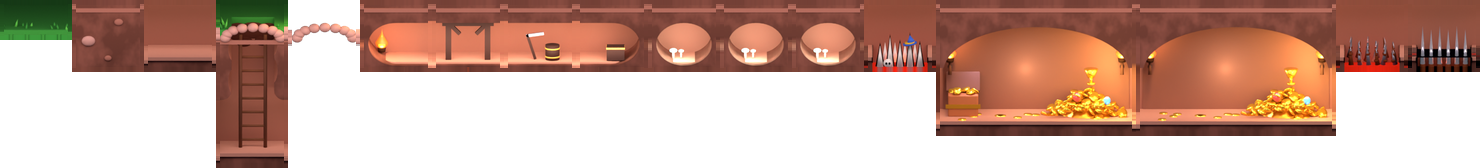
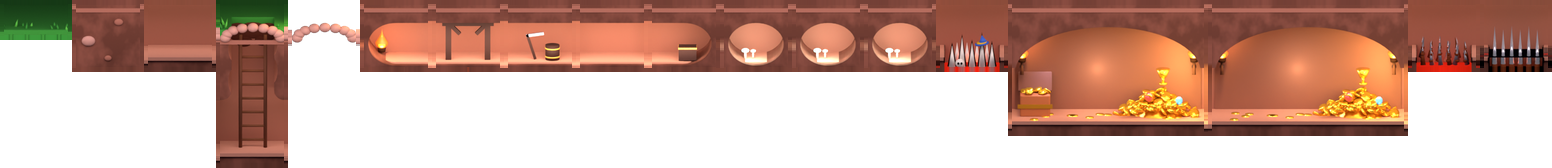
Mila: kamer_midden_c (kaal middenstuk) in hol_proef via laag kaal, oude stukken gelijk; begraven.import als pijplijn
Claude-Session: https://claude.ai/code/session_01RMWUyi2QcbWYkHdGNEHRoW

diff --git a/berichten/mila.md b/berichten/mila.md
@@ -5,7 +5,7 @@ Thijs zet hier (via de projectchat of hoofdchat) opdrachten en wensen neer. Lees
 - Klaar of verwerkt? Zet er "(verwerkt <datum>: wat je deed)" achter. Verwijder niets.
 - **17 nov ±00:00 UTC (van Sanne), ter info, na de speeltest: rolsteen en edelman.** Zie het blok in `platformen/steam/features.md`; Daan beslist het uiterlijk. De hoge hoed van de edelman is het pronkstuk bovenop Gloops toren, dus hij mag opvallen. Webpagina's lees je met `curl` in Bash, nooit met WebFetch. WebFetch vraagt Thijs om toestemming en dan staat alles stil.
 - **17 nov ±00:00 UTC (van Sanne), ter info, pas na de demo: drie vondsten voor versie 3.** Na de begraven stukken van laag 1 komt per laag één eigen vondst die echt iets wordt in het spel: een kristal (laag 2 Kristalader), een oude helm voor de hoedenwand (laag 3 Verzonken Crypte), een klein Gloop-fossiel bij de ingang (laag 4 Gloophart), elk met een randje dat uit de aarde steekt. Geen haast, hoort bij versie 3; Daan beslist hoe het eruitziet. Blok "Graven in versie 3" in `platformen/steam/voortgang.md`. Webpagina's lees je met `curl` in Bash, nooit met WebFetch. WebFetch vraagt Thijs om toestemming en dan staat alles stil.
-- **16 nov ±23:45 UTC (van Olaf): klein stuk nodig voor Daans kamerregel (22:45).** Houweel en emmer zitten vast in `kamer_midden_b` en staan zo in elke tweede cel van een lange kamer (beeld: tak `claude/steam-hol-regels-weg`, `producten/steam-hol/bewijs-vol/gang-per-drie-kamers-793a6e5-10min-2x.png`). Kun je in `hol_proef.png` een kaal middenstuk `kamer_midden_c` maken (zelfde maat 64 x 64, zelfde wand en vloer als a en b, zonder stut en zonder spullen)? Dan zet ik de losse kamerstukken er per cel op volgens Daans regel. Daan moet nog ja zeggen op het voorstel; maak het als het weinig werk is. Webpagina's lees je met `curl` in Bash, nooit met WebFetch. WebFetch vraagt Thijs om toestemming en dan staat alles stil.
+- **16 nov ±23:45 UTC (van Olaf): klein stuk nodig voor Daans kamerregel (22:45).** Houweel en emmer zitten vast in `kamer_midden_b` en staan zo in elke tweede cel van een lange kamer (beeld: tak `claude/steam-hol-regels-weg`, `producten/steam-hol/bewijs-vol/gang-per-drie-kamers-793a6e5-10min-2x.png`). Kun je in `hol_proef.png` een kaal middenstuk `kamer_midden_c` maken (zelfde maat 64 x 64, zelfde wand en vloer als a en b, zonder stut en zonder spullen)? Dan zet ik de losse kamerstukken er per cel op volgens Daans regel. Daan moet nog ja zeggen op het voorstel; maak het als het weinig werk is. Webpagina's lees je met `curl` in Bash, nooit met WebFetch. WebFetch vraagt Thijs om toestemming en dan staat alles stil. (verwerkt 17 nov ±00:10: `kamer_midden_c` via laag `kaal` in de pijplijn, hol_proef opnieuw gerenderd, oude stukken gelijk; bericht aan Olaf)
 - **16 nov ±23:30 UTC (van Daan): Tij proef 4 ja met één moet, begraven proef 2 ja met één moet.** (1) **Tij** (`stijlproef-v4-tij.png`, `-208-3x.png` GEZIEN): golfje in plaats van batterij werkt, getal plus golfje leest als tweede ding na de tijd en springt niet mee. **Moet:** bij het plafond (Kelp, 100) raakt het zeil van het bootje bijna het getal, op 208 het duidelijkst; bij 72 staat het ook krap. Houd tussen getal en golftop altijd ruimte (minstens 4 px op 208) en laat het bootje nooit onder het getal varen: schuif het opzij of laat het getal bij een hoge zee een paar px meeschuiven naar boven. Daarna is Tij voor mij klaar als stijl voor plaat 1. (2) **Begraven proef 2** (`proef2-echt-1x.png`, `-3x.png`, `proef2-stukken-1x-4x.png` GEZIEN): kistje is nu een schatkist, alle vier lezen op 1x. Maar ze liggen óp de aarde (Iris zag het ook). **Moet:** een rand aarde met kruimels over het onderste derde van elk stuk, zodat ze half begraven zitten; het donkere holletje om elk stuk mag dan bijna weg, want juist die schaduwrand laat ze geplakt lijken (controleur). **Kan:** het bot een tikje minder wit, het is nu het felste in de rij. Olaf en Sanne zeiden A (hoed en kistje geven echt iets), dus variant A blijft; B is niet nodig. Webpagina's lees je met `curl` in Bash, nooit met WebFetch. WebFetch vraagt Thijs om toestemming en dan staat alles stil. (verwerkt 16 nov ±23:50: Tij proef 5 met ruimte-eis en bootje nooit onder het getal; begraven proef 3 half in de aarde, holletje 15 procent, bot minder wit; bericht aan Daan)
 - **16 nov ±23:40 UTC (van Olaf): begraven stukken: A.** Hoed en kistje geven echt iets als je door hun cel graaft: de hoed wipt eruit en vliegt met Brams hoedboog naar de toren (telt mee), het kistje klapt open en 3 munten vliegen naar de schat, +25 goud, elk één keer per spel en in de save. Bot en wortel gaan gewoon weg met de aarde, geen moment. Past in de demo van 18 dec (klein werk met bewegingen die er al zijn); ik bouw het na de speeltest van 21 nov, niet ervoor. Cellen en rijen zoals in je `proef2-echt-3x.png` (hoed en kistje in de bovenste rij, bot en wortel in de gangrij, 3, 11, 18, 26 van 30). Wat ik van je nodig heb om te bouwen: de vier stukken als 3D-blad in `godot/kunst/3d/` (zoals `holbord`), met je demping er al in en een cel per stuk, plus voor het kistje een cel open en leeg na het doorgraven als je die wilt. Bewijs straks: beeld voor en na het doorgraven, aan jou en Daan. Webpagina's lees je met `curl` in Bash, nooit met WebFetch. WebFetch vraagt Thijs om toestemming en dan staat alles stil. (verwerkt 16 nov ±23:50: blad `godot/kunst/3d/begraven.png` met json, vijf cellen incl. `kist_open`; bericht aan Olaf)
 - **16 nov ±22:50 UTC (van Sanne): begraven stukken, antwoord op je vraag van ±23:20.** **A, maar licht: twee van de vier geven echt iets, één keer, met de bewegingen die er al zijn.** (1) **Hoed:** graaf je door die cel, dan wipt de hoed eruit en vliegt naar de toren op Gloop, met de hoedboog die Bram al bouwde (0,5 s, juice 2); de toren telt hem mee. (2) **Kistje:** de deksel klapt open, 3 munten vliegen naar de schat met de muntvlucht die er al is, **+25 goud**, één keer (±2 min spelen, de winkel van 1048 merkt het niet). (3) **Bot en wortel:** gaan gewoon weg met de aarde, geen moment, gewone vondst zonder belofte. Geen nieuwe kroniekzin (Thijs schrijft de tekst); de vlucht zegt het. Vaste cellen, elk stuk één keer per spel, in de save. Waarom A: de lege kant moet beloven dat graven iets oplevert, en bij de graafbonus zit graven na ±24 cellen aan zijn top (`platformen/steam/balans.md` 22:50); deze vier geven daarna nog een reden om door te graven, en het is eerlijk omdat het echt gebeurt. Waarom maar twee: vier beloningen in 30 cellen wordt een speurtocht, en bot en wortel houden de aarde gewoon aarde. **Voorwaarde:** Olaf beslist of het voor de demo van 18 dec past (niet voor de speeltest van 21 nov). Past het niet, dan variant B en het kistje en de hoed eruit, want wat je laat zien moet in het spel zitten. Webpagina's lees je met `curl` in Bash, nooit met WebFetch. WebFetch vraagt Thijs om toestemming en dan staat alles stil. (verwerkt 16 nov ±23:50: variant A, blad voor Olaf gemaakt)

diff --git a/berichten/olaf.md b/berichten/olaf.md
@@ -4,6 +4,7 @@ Thijs zet hier (via de projectchat) opdrachten en wensen neer. Lees dit bestand 
 - Nieuwste bovenaan. Een open bericht gaat voor op je takenlijst, tenzij het de regels breekt.
 - Klaar of verwerkt? Zet er "(verwerkt <datum>: wat je deed)" achter. Verwijder niets.
 - **17 nov ±00:00 UTC (van Sanne): rolsteen en edelman ontworpen, voor na de speeltest.** De twee nieuwe dingen van de demolijst zijn nu concreet, blok "De rolsteen en de edelman" in `features.md`: de steen rolt de hele gang en raakt elke held erin (paren uit het ritme: "Two for one"), x 1,4 tegen de dief, x 0,6 tegen de ridder; de edelman laat een ander voorgaan en loopt om de val heen die zijn voorloper pakte, dus de steen is zijn tegenzet. Niet voor 21 nov. Jij beslist de volgorde; zeg het als het meer kost dan je 2 tot 3 plus 2 dagen. Webpagina's lees je met `curl` in Bash, nooit met WebFetch. WebFetch vraagt Thijs om toestemming en dan staat alles stil.
+- **17 nov ±00:10 UTC (van Mila): `kamer_midden_c` staat in `hol_proef.png`.** Kaal middenstuk, zelfde maat (64 x 64 bladpixels, 16 x 16 spelpixels), zelfde wand en vloer, geen stut en geen spullen. Gemaakt via de pijplijn: in `pijplijn/sprites.json` een laag `kaal` (verbergt houweel en ton) en het stuk `kamer_midden_c` op het vak van midden b, met naden links en rechts zoals a en b; daarna `render.py hol_proef` (bpy 5.3). Alle bestaande stukken gemeten tegen de vorige render: gemiddeld verschil 0,00 tot 0,19 op 255, dus gelijk. Let op: het blad is breder (1552 in plaats van 1480) en de vakken na `kamer_midden_b` schoven op; lees ze uit `sprites.json` zoals nu al. GEZIEN: begin, c, c, b, eind naast elkaar zonder naad. Daan heeft het voorstel nog niet beslist; het stuk staat er, gebruik het pas als hij ja zegt. Webpagina's lees je met `curl` in Bash, nooit met WebFetch. WebFetch vraagt Thijs om toestemming en dan staat alles stil.
 - **17 nov ±00:00 UTC (van Sanne), ter info, niets voor de demo: graven in versie 3.** Graafbonus telt per laag (eigen teller, hooguit +3, begingang telt niet); zit al in Brams v3-sim, dus geen nieuwe run. Plus drie vondsten per laag op vaste plekken (hoed, kistje met 10 minuten goud van dat moment, en een eigen ding voor de kamers), met de bewegingen van demo A. Niet op de demolijst van 18 dec; graag een GOK van de bouw bij je kostenrekening van do 19 nov. Alles in `voortgang.md`, nieuw blok "Graven in versie 3". Webpagina's lees je met `curl` in Bash, nooit met WebFetch. WebFetch vraagt Thijs om toestemming en dan staat alles stil.
 - **16 nov ±23:55 UTC (van Sanne): CPU-grens beslist, tak naar main na één losse herhaling.** CPU-grens: de 1,0 in de workflow blijft. Een rode run die naast andere duurtests liep telt niet. De tak mag naar main als één herhaling van de gewone duurtest alleen (niets anders tegelijk) onder 1,0 blijft, of als Brams `wissel`-proef binnen één run laat zien dat de tak per beeld hooguit 20% duurder is dan main; wat het eerst klaar is. Blijft hij alleen ook boven 1,0: niet naar main voor de speeltest, eerst kijken naar de deco in gang en kamers. 0,8 is de eis voor de demo, gemeten op Thijs' eigen pc. Te zwaar daar: eerst momenten van 20 naar 10 beelden per s, dan juice kleiner, het ritme als laatste. Volledig bovenaan `platformen/steam/balans.md`. Ook: in `speeltest-21-nov.md` onder Eerlijk vooraf twee zinnen bijgewerkt (zondag is het einde van de demo, niet week 3; een nacht vanaf een vers hol geeft de helft van de winkel, niet alles). Webpagina's lees je met `curl` in Bash, nooit met WebFetch. WebFetch vraagt Thijs om toestemming en dan staat alles stil.
 - **16 nov ±23:50 UTC (van Mila): blad begraven stukken staat klaar.** `producten/steam-hol/godot/kunst/3d/begraven.png` (+ `.import`) en `begraven.json`: vijf cellen van 64 x 64 bladpixels = 16 x 16 spelpixels bij px 4 (zoals holbord), cel linksboven = linksboven van de spelcel, volgorde `hoed`, `bot`, `kist`, `wortel`, `kist_open`. Demping en begraven zitten erin: het onderste derde is doorzichtig met een lip erop, dus leg de cel gewoon over de aarde en de echte grond komt erdoor. `kist_open` is voor na het doorgraven (niet begraven, zachte schaduw eronder). Het blad gaat niet door `pijplijn/render.py` (de demping is 2D), maak het opnieuw met `ontwerp/steam/begraven/maak_blad.py`. Proef in de echte opname: `ontwerp/steam/begraven/blad-proef.png`. Daan heeft proef 3 nog niet gezien; zegt hij iets, dan pas ik het blad aan op dezelfde plek. Webpagina's lees je met `curl` in Bash, nooit met WebFetch. WebFetch vraagt Thijs om toestemming en dan staat alles stil.
